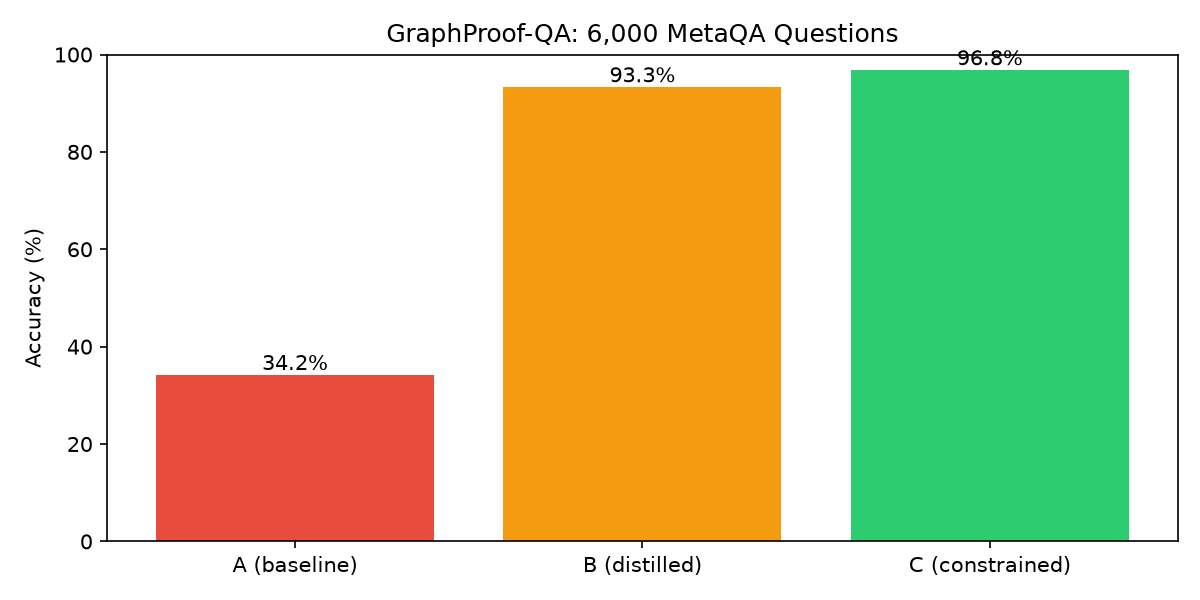
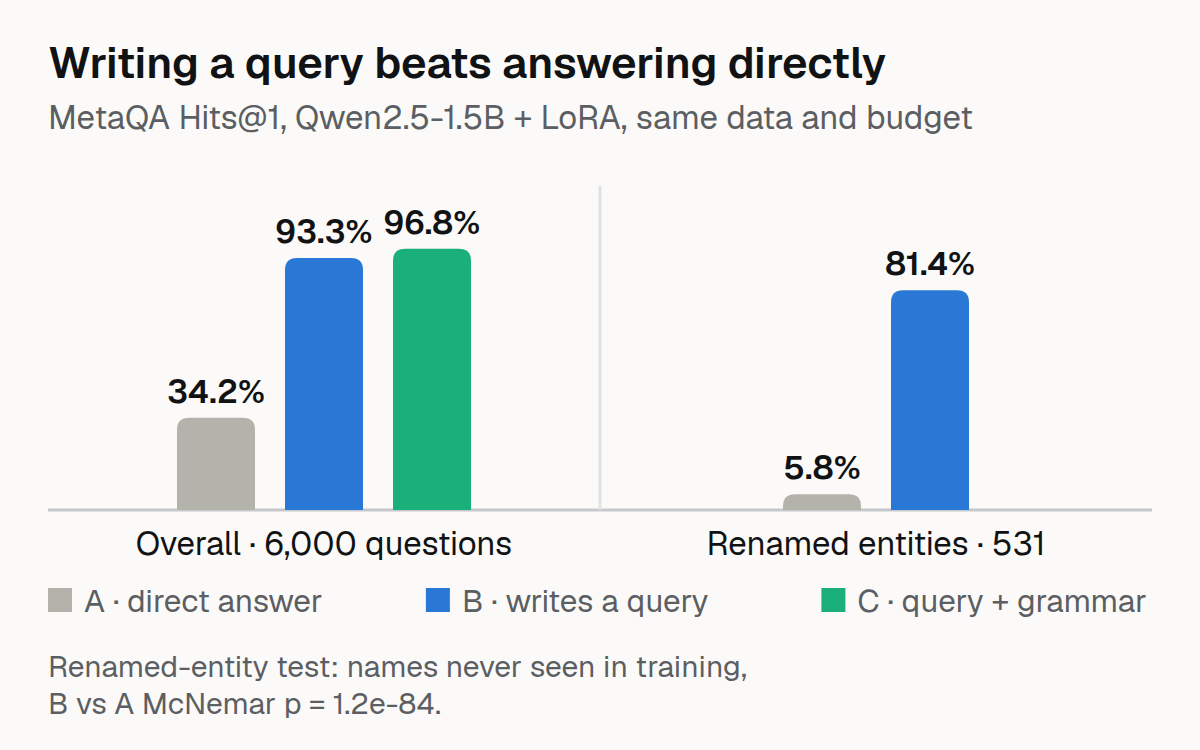
Articles: use HEAD in raw image URLs (works for main and master)

diff --git a/README.md b/README.md
@@ -2,24 +2,70 @@
 
 Small-model question answering that compiles to an executable graph query, with a proof trace for every answer.
 
-Fine-tunes Qwen2.5-1.5B-Instruct to translate MetaQA movie questions into a tiny typed path-query DSL instead of answering directly. Decoding is grammar-constrained to the KG schema + entity trie, the query executes over the graph, and every answer ships with its executed path as proof.
+![GraphProof-QA results](images/graphproof.png)
+
+A Qwen2.5-1.5B-Instruct model is fine-tuned to translate MetaQA movie questions into a small typed path-query DSL instead of answering directly. Decoding is grammar-constrained to the knowledge-graph schema, the query executes over the graph, and every answer ships with the executed path as its proof.
 
 ## Why
 
-Aggregate QA accuracy can't tell memorisation from grounding. Compile-then-execute separates them:
+Aggregate QA accuracy cannot tell memorisation from grounding. Compile-then-execute separates them:
+
 - **Executable-query rate**: how often the model writes a query that parses and runs
 - **Failure breakdown**: entity ambiguity, relation direction, hop count, parse errors
-- **Hard conditions**: renamed entities (never seen in training), deleted triples (correct answer: "not in graph")
+- **Hard conditions**: renamed entities (never seen in training) and deleted triples (the correct answer is "not in the graph")
 
-On an edited graph the executor follows the edit **by construction** — a demonstration, not a discovery. The renamed-entity and deleted-triple results are the real measurements.
+On an edited graph the executor follows the edit by construction. That is a demonstration, not a discovery; the renamed-entity and deleted-triple results are the real measurements.
 
-## Status
+## Results
 
-Milestone 1 (DSL + executor) in progress. See `AGENTS.md`.
+Three systems, same base model, same 30k training pairs, same LoRA config (r=16, 3 epochs). Only the task differs. Evaluation: 2,000 held-out questions per hop level (6,000 total), Hits@1.
 
-## Paraphrase Robustness
+| Hop | A: direct answer | B: DSL, unconstrained | C: DSL + grammar |
+|---|---|---|---|
+| 1-hop | 14.2% | 97.2% | 98.3% |
+| 2-hop | 22.2% | 89.7% | 97.2% |
+| 3-hop | 66.3% | 93.0% | 94.9% |
+| **Overall** | **34.2%** | **93.3%** | **96.8%** |
 
-100 test questions paraphrased via OpenAI (gpt-4o-mini) with entities preserved. Stored in `data/paraphrases/paraphrases_100.json`.
+B vs A: McNemar exact p is effectively 0 (3,645 improvements vs 101 regressions on 6,000 paired items). B produced zero parse failures in 6,000 generations.
+
+**Renamed entities** (200 entities renamed to strings never seen in training, 531 rewritten questions):
+
+| System | Hits@1 |
+|---|---|
+| B (compile-then-execute) | **81.4%** |
+| A (direct answer) | **5.8%** |
+
+A 75.6-point gap, McNemar p = 1.2e-84 (411 vs 10 discordant pairs).
+
+Two more conditions, reported as they came out:
+
+- **Swapped triples** (500 edits): B follows the edit 95.6% of the time. True by construction.
+- **Deleted triples** (99 fully disconnected questions): B abstains 8.1%, A 0.0%. Neither abstains well; executability is not calibration.
+
+### Where B fails (100 hand-labelled misses)
+
+| Failure type | Count |
+|---|---|
+| Wrong relation choice | 83 |
+| No exact gold path exists | 17 |
+| Parse error | 0 |
+| Wrong entity / direction / hop count | 0 |
+
+## What didn't work
+
+- Full entity-trie enforcement distorts greedy entity selection (a tokenisation-vs-trie-path misalignment in the compiled matcher). System C constrains shape and relations instead. Open issue, not a claimed result.
+- vLLM was unusable here (flashinfer / CUDA incompatibility); all inference uses HF Transformers.
+
+## Limitations
+
+- MetaQA is template-generated, which flatters every score. 100 paraphrased test questions are in `data/paraphrases/` (generated with gpt-4o-mini, entities preserved); the robustness evaluation on them is still pending.
+- Abstention does not work (8.1%).
+- One model scale (1.5B); no 7B point.
+
+## Reproduce
+
+Adapters: [raihan-js/graphproof-dsl-1.5b](https://huggingface.co/raihan-js/graphproof-dsl-1.5b), [raihan-js/graphproof-direct-1.5b](https://huggingface.co/raihan-js/graphproof-direct-1.5b). Dataset: [raihan-js/MetaQA-CF](https://huggingface.co/datasets/raihan-js/MetaQA-CF). Per-item results are JSONL logs; every number above comes from them. 26 tests (`PYTHONPATH=src pytest tests/`).
 
 ## License
 

diff --git a/devto_article.md b/devto_article.md
@@ -1,4 +1,4 @@
-![graphproof-qa results](https://raw.githubusercontent.com/raihan-js/graphproof-qa/main/images/graphproof.png)
+![graphproof-qa results](https://raw.githubusercontent.com/raihan-js/graphproof-qa/HEAD/images/graphproof.png)
 
 # GraphProof-QA: Teaching a Small Model to Prove Its Answers
 
@@ -80,7 +80,7 @@ Gold queries for all 329k training questions were generated by exact-match relat
 
 - **Full entity-trie enforcement** distorts greedy entity selection (a Qwen tokenization-vs-trie-path misalignment in xgrammar's compiled matcher). The 43k-name trie compiles in ~15s but isn't enforced at decode time; system C constrains shape + relations instead. Documented open issue, not a claimed result.
 - **vLLM** was unusable (flashinfer/CUDA incompatibility); all inference is HF Transformers.
-- MetaQA is template-generated — 100 hand-written paraphrases are still pending as a robustness check.
+- MetaQA is template-generated. 100 paraphrased test questions (gpt-4o-mini, entities preserved) are in the repo; the robustness evaluation on them is still pending.
 
 ## Reproduce It
 
